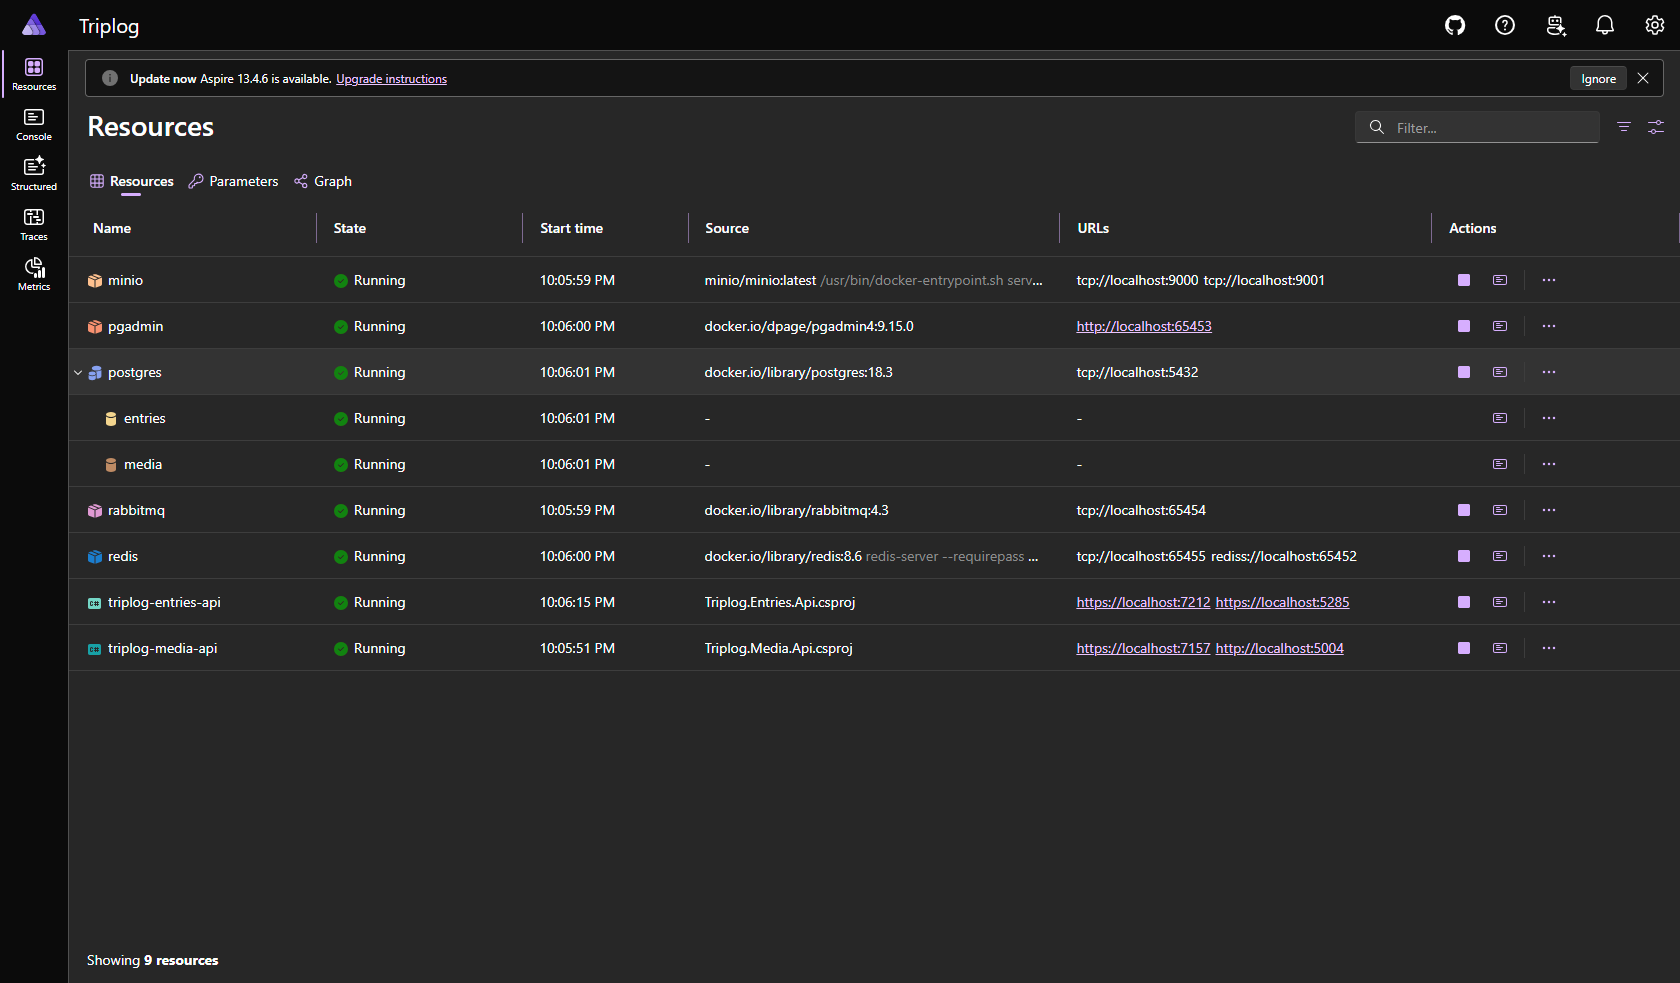
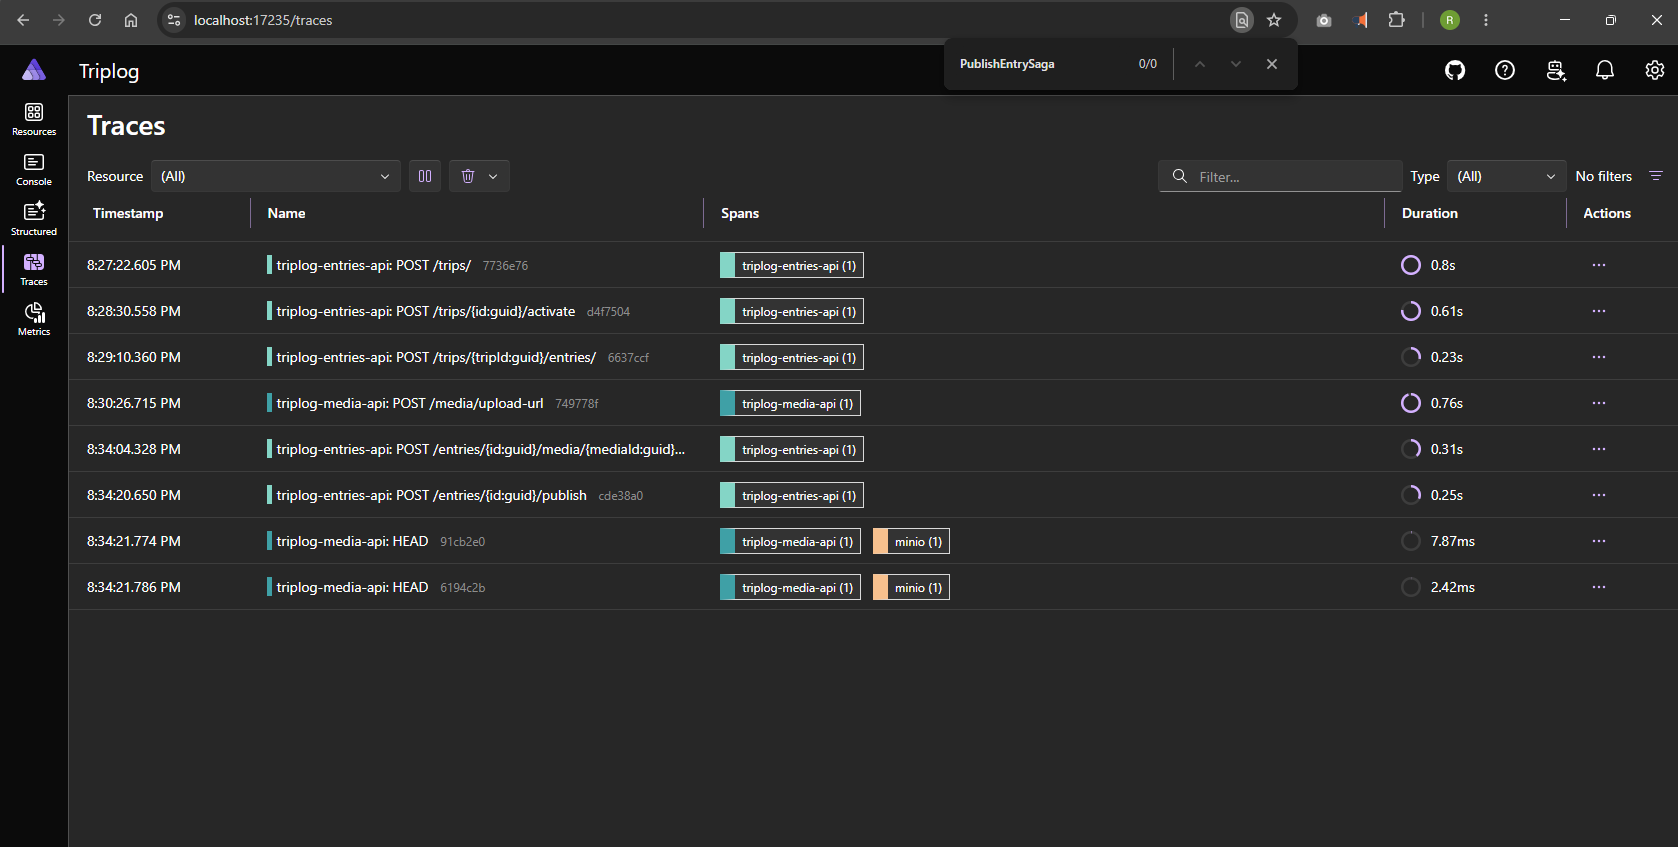
Verify saga happy path end-to-end and refresh README

diff --git a/README.md b/README.md
@@ -2,7 +2,7 @@
 
 A two-service travel journal demonstrating .NET Aspire orchestration, MassTransit saga-based coordination, and Clean Architecture across bounded contexts — built deliberately small so every distributed system decision can be explained line by line.
 
-> **Status — v1 in progress.** entries-api is complete: Domain (83 unit tests + 8 ADRs), Application (CQRS commands + queries + MediatR pipeline behaviors), Infrastructure (EF Core + Postgres + auto-migrate), and HTTP surface (17 minimal-API endpoints, ProblemDetails errors, X-User-Id auth stub). Next: media-api mirror, then MassTransit saga wiring. v2 will add real auth and cloud deploy when I start using triplog on real trips.
+> **Status — backend v1 complete.** Full distributed saga runs end-to-end (entries-api → RabbitMQ → media-api → saga callback → entries-api). Next up: Next.js frontend, integration tests, and CI. v2 will add real auth and cloud deploy.
 
 ## What this demonstrates
 
